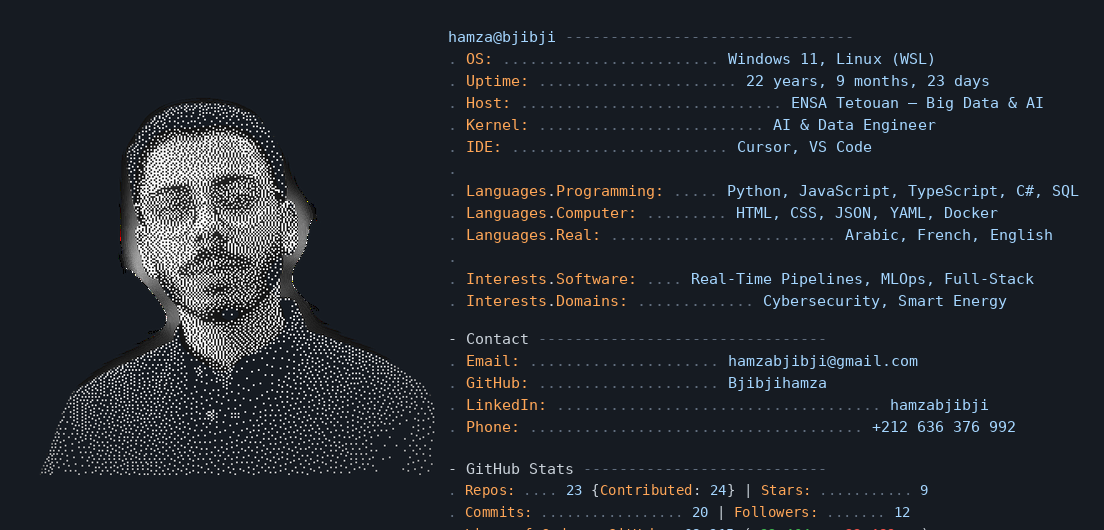
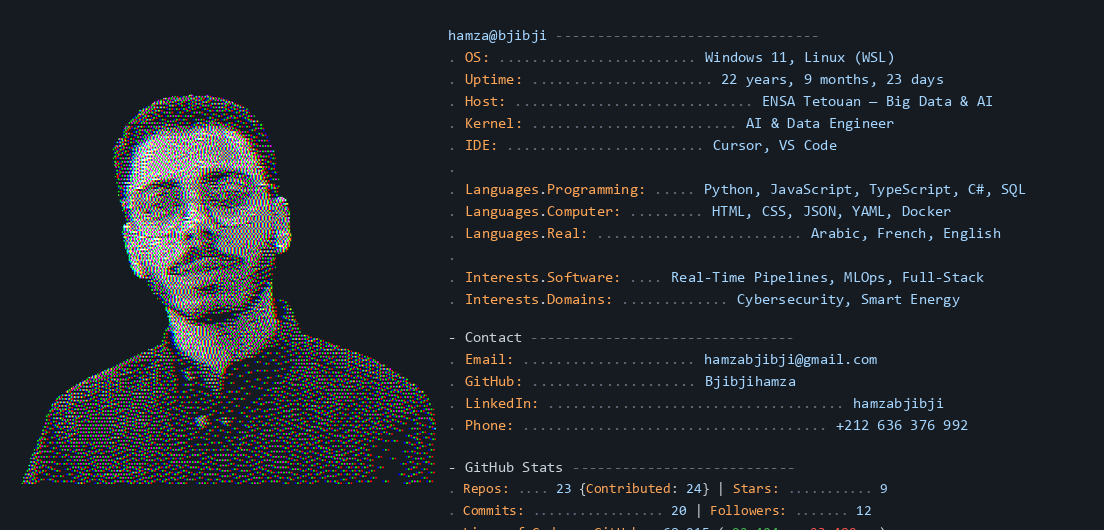
Rebuild whoami card with ascii-magic-2 portrait.

diff --git a/scripts/build_whoami_card.py b/scripts/build_whoami_card.py
@@ -8,7 +8,7 @@ from PIL import Image, ImageDraw, ImageFont
 
 ROOT = Path(__file__).resolve().parent.parent
 ASSETS = ROOT / "assets"
-PORTRAIT = ASSETS / "ascii-me-3.png"
+PORTRAIT = ASSETS / "ascii-magic-2.png"
 OUT = ASSETS / "whoami-card.png"
 
 BG = (22, 27, 34)  # #161b22
